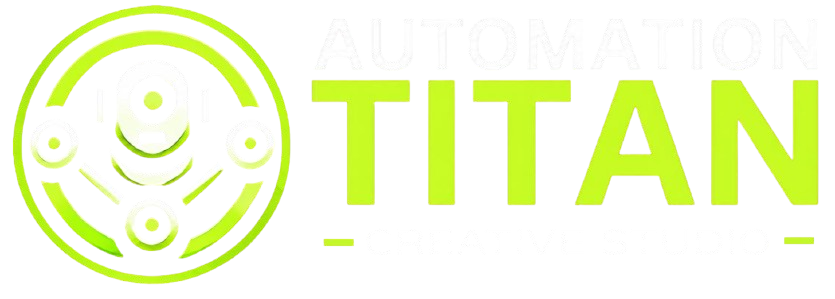
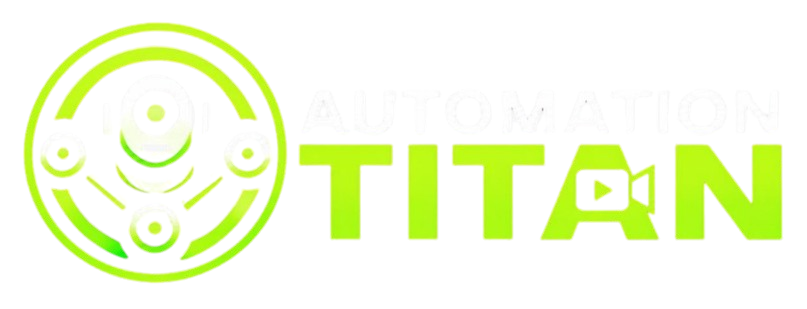
final 3

Changed region(s): [[0.0, 0.0, 0.9913, 0.9632], [0.1549, 0.301, 0.2169, 0.4214]]

diff --git a/src/components/Hero.jsx b/src/components/Hero.jsx
@@ -95,7 +95,7 @@ export default function Hero() {
               rel="noopener noreferrer"
               className="flex h-14 flex-1 max-w-xs items-center justify-center rounded-full border border-lime/60 text-xl font-medium tracking-wide text-lime transition-colors hover:bg-lime/10 sm:h-16"
             >
-              Explore Our Work
+              Explore Our Portfolio
             </a>
           </div>
 

diff --git a/src/components/Navbar.jsx b/src/components/Navbar.jsx
@@ -66,7 +66,7 @@ export default function Navbar() {
 
         {/* Logo */}
         <a href="#top" className="flex items-center gap-2">
-          <img src={ATS1} alt="logo" className="h-12 sm:h-[65px] w-auto object-contain" />
+          <img src={ATS1} alt="logo" className="h-12 sm:h-[80px] w-auto object-contain" />
         </a>
 
         {/* Center nav (desktop) */}

diff --git a/src/components/Footer.jsx b/src/components/Footer.jsx
@@ -1,7 +1,7 @@
 import { site } from '../siteConfig.js'
 import BookingButtons from './BookingButtons.jsx'
 import Reveal from './Reveal.jsx'
-import ATS2 from '../assets/ATS1.png'
+import ATS2 from '../assets/ATS2.png'
 
 // Same anchors as the navbar — footer nav should never drift from it.
 const quickLinks = [
